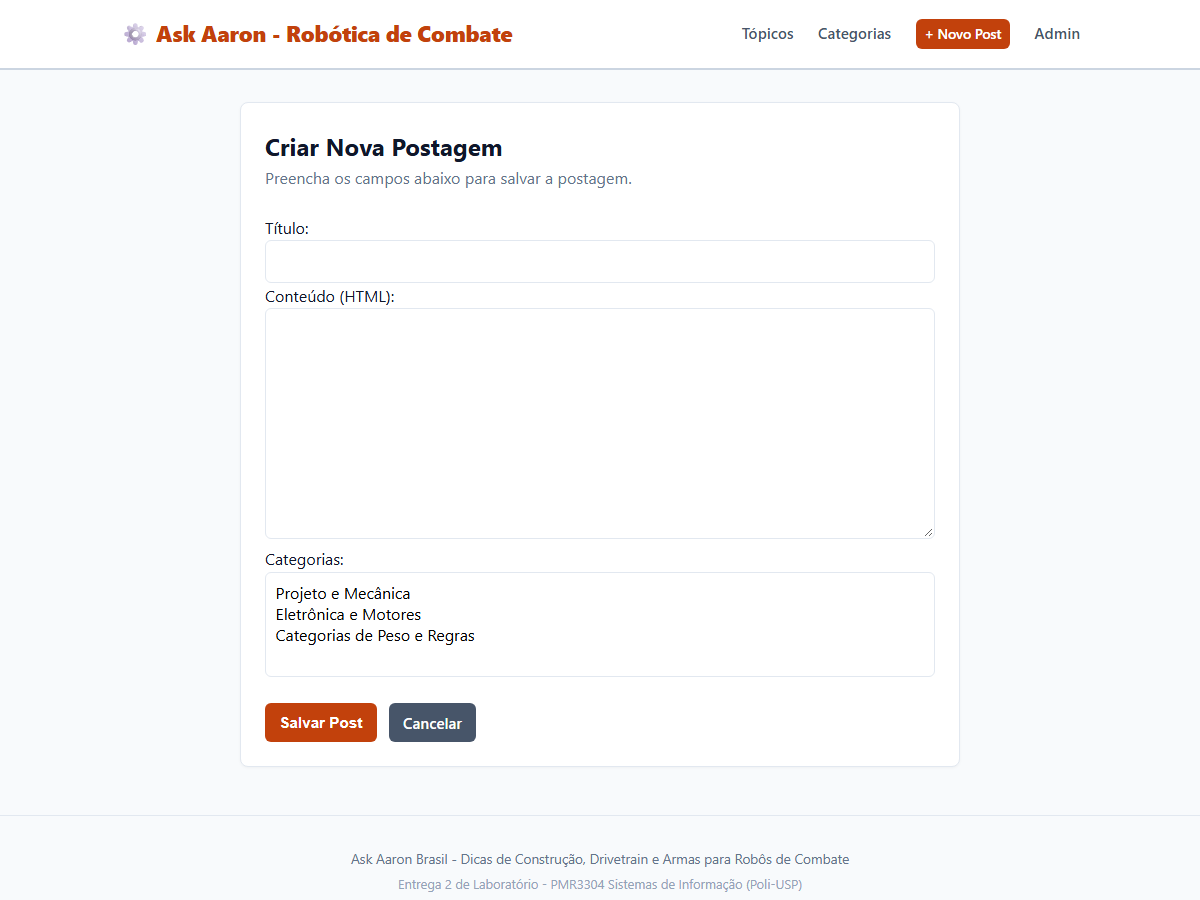
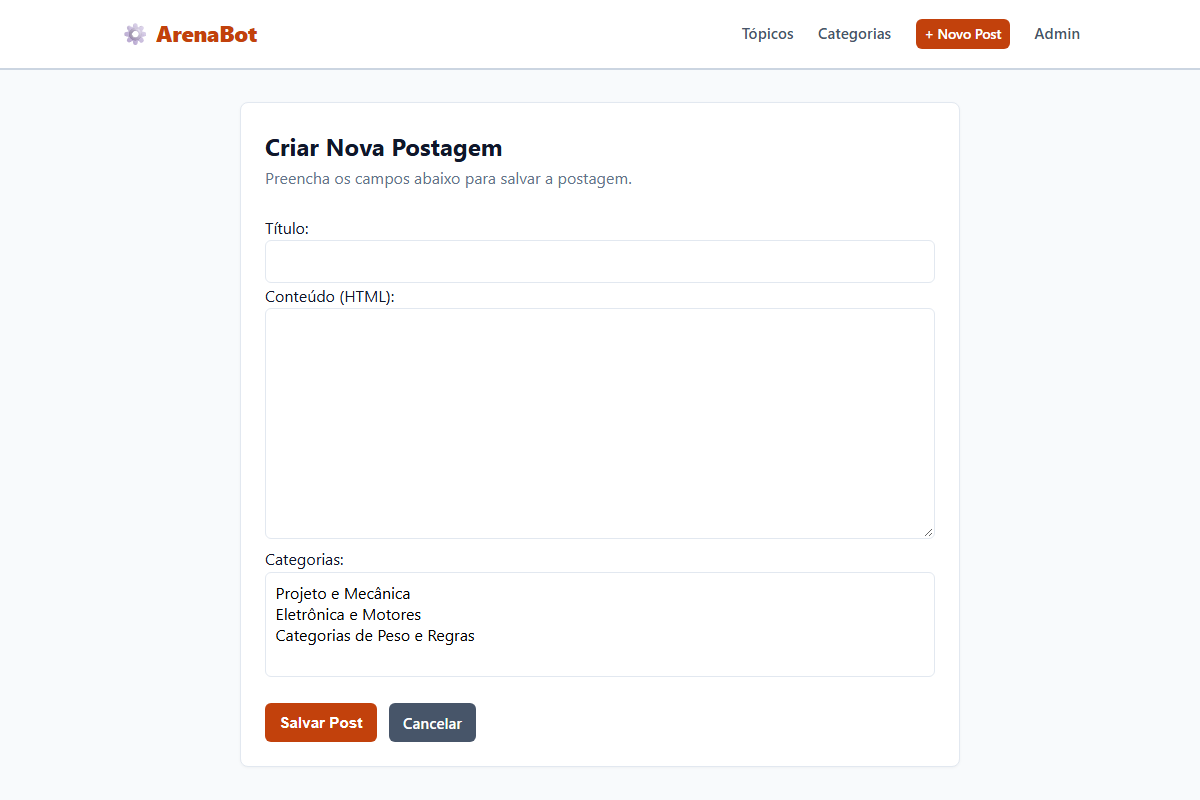
Atualizacao das capturas de tela e relatorio com ArenaBot

diff --git a/templates/base.html b/templates/base.html
@@ -3,7 +3,7 @@
 <head>
     <meta charset="UTF-8">
     <meta name="viewport" content="width=device-width, initial-scale=1.0">
-    <title>{% block title %}Ask Aaron - Robótica de Combate{% endblock %}</title>
+    <title>{% block title %}ArenaBot - Robótica de Combate{% endblock %}</title>
     <style>
         :root {
             --primary: #c2410c;
@@ -156,7 +156,7 @@
 <body>
     <header>
         <div class="nav-container">
-            <a href="{% url 'post_list' %}" class="logo">⚙ Ask Aaron - Robótica de Combate</a>
+            <a href="{% url 'post_list' %}" class="logo">⚙ ArenaBot</a>
             <nav>
                 <a href="{% url 'post_list' %}">Tópicos</a>
                 <a href="{% url 'category_list' %}">Categorias</a>
@@ -172,7 +172,7 @@
     </main>
 
     <footer>
-        <p>Ask Aaron Brasil - Dicas de Construção, Drivetrain e Armas para Robôs de Combate</p>
+        <p>ArenaBot - Engenharia & Robótica de Combate</p>
         <p style="margin-top: 0.25rem; font-size: 0.8rem; color: #94a3b8;">Entrega 2 de Laboratório - PMR3304 Sistemas de Informação (Poli-USP)</p>
     </footer>
 </body>

diff --git a/populate_db.py b/populate_db.py
@@ -1,0 +1,147 @@
+import os
+import django
+
+os.environ.setdefault('DJANGO_SETTINGS_MODULE', 'myblog.settings')
+django.setup()
+
+from django.contrib.auth.models import User
+from blog.models import Post, Comment, Category
+from django.utils import timezone
+import datetime
+
+print("Iniciando população da base de dados do blog ArenaBot...")
+
+# 0. Limpeza total e reset de autoincrement
+from django.db import connection
+with connection.cursor() as cursor:
+    cursor.execute("DELETE FROM blog_comment;")
+    cursor.execute("DELETE FROM blog_post_categories;")
+    cursor.execute("DELETE FROM blog_post;")
+    cursor.execute("DELETE FROM blog_category;")
+    cursor.execute("DELETE FROM auth_user;")
+    cursor.execute("DELETE FROM sqlite_sequence WHERE name IN ('blog_post', 'blog_comment', 'blog_category', 'auth_user');")
+
+# 1. Usuários
+admin_user = User.objects.create_superuser('admin', 'admin@arenabot.com.br', 'admin123')
+marcos = User.objects.create_user('marcos_mec', 'marcos@poli.usp.br', 'senha123')
+pedro = User.objects.create_user('pedro_elec', 'pedro@poli.usp.br', 'senha123')
+lucas = User.objects.create_user('lucas_poli', 'lucas@poli.usp.br', 'senha123')
+
+print("Usuários criados: admin, marcos_mec, pedro_elec, lucas_poli")
+
+# 2. Categorias
+cat_mec = Category.objects.create(
+    name='Projeto e Mecânica',
+    description='Armações, materiais como Titânio e Hardox, dentes de impacto, tambores e cálculos de inércia.'
+)
+
+cat_elec = Category.objects.create(
+    name='Eletrônica e Motores',
+    description='Baterias LiPo, controladores brushless (ESCs), rádios 2.4GHz e dimensionamento elétrico.'
+)
+
+cat_rules = Category.objects.create(
+    name='Categorias de Peso e Regras',
+    description='Normas de segurança, limites de peso (Beetleweight, Featherweight) e inspeção de arena.'
+)
+
+print("Categorias criadas: Projeto e Mecânica, Eletrônica e Motores, Categorias de Peso e Regras")
+
+# Post 1 (comentado, múltiplas categorias: Projeto e Mecânica + Eletrônica e Motores)
+p1 = Post.objects.create(
+    title='Dimensionamento de Reduções Planetárias e Motores Brushless para Armas de Tambor',
+    content='''<p>Um dos erros mais comuns em robôs da classe <em>Beetleweight (1,36 kg)</em> com armas rotativas de tambor (drum spinners) é focar apenas na rotação máxima (RPM) e esquecer o <strong>tempo de aceleração (spin-up)</strong> e a taxa de avanço (bite).</p>
+<h3>1. Cálculo de Rotação e Bite</h3>
+<p>Se o seu tambor gira rápido demais sem ter dentes com altura suficiente, ele simplesmente raspa na blindagem do oponente em vez de transferir energia cinética. O dente precisa de tempo mecânico para engatar por baixo do adversário antes de desferir o golpe.</p>
+<ul>
+    <li><strong>Momento de Inércia:</strong> Concentre a massa nas extremidades do diâmetro do tambor.</li>
+    <li><strong>Redução por Polias:</strong> Polias sincronizadoras HTD 3M com correias de poliuretano com alma de aço evitam que o motor trave em impactos diretos.</li>
+    <li><strong>Controlador (ESC):</strong> Sempre utilize controladores com limite de corrente ativo para não queimar enrolamentos durante travamentos na arena.</li>
+</ul>
+<p>Um tempo de spin-up entre 1,5s e 2,5s é ideal para manter a manobrabilidade e estar sempre pronto para o contra-ataque.</p>''',
+)
+p1.categories.set([cat_mec, cat_elec])
+p1.created_at = timezone.now() - datetime.timedelta(days=2)
+p1.save()
+
+# Comentários do Post 1 (3 comentários)
+c1_1 = Comment.objects.create(
+    post=p1,
+    author=marcos,
+    text='Excelente post! Para o dente de impacto você recomenda fixar com parafusos de grau 12.9 ou usinar inteiriço em aço ferramenta S7?',
+)
+c1_1.created_at = timezone.now() - datetime.timedelta(days=2, hours=-1)
+c1_1.save()
+
+c1_2 = Comment.objects.create(
+    post=p1,
+    author=pedro,
+    text='Sobre os ESCs, tivemos muito problema de desync em acelerações bruscas. O que resolveu pra gente foi migrar para controladores com firmware AM32.',
+)
+c1_2.created_at = timezone.now() - datetime.timedelta(days=2, hours=-2)
+c1_2.save()
+
+c1_3 = Comment.objects.create(
+    post=p1,
+    author=lucas,
+    text='Muito didático! Estamos projetando um Beetleweight aqui na faculdade e essa relação de inércia e bite ajudou demais a fechar as polias.',
+)
+c1_3.created_at = timezone.now() - datetime.timedelta(days=2, hours=-3)
+c1_3.save()
+
+
+# Post 2 (comentado, múltiplas categorias: Projeto e Mecânica + Categorias de Peso e Regras)
+p2 = Post.objects.create(
+    title='Guia de Blindagem: Quando Usar UHMW, Alumínio 7075 ou Titânio Grau 5',
+    content='''<p>Escolher o material certo para o chassi e as placas de proteção é o que define se o seu robô vai sobreviver aos três minutos de combate ou sair em pedaços da caixa de acrílico.</p>
+<h3>Comparativo Rápido de Materiais:</h3>
+<ul>
+    <li><strong>UHMW (Polietileno de Ultra Alto Peso Molecular):</strong> Excelente absorvedor de choques. Ele deforma plasticamente sem trincar contra impactos de discos horizontais de alta energia.</li>
+    <li><strong>Titânio Grau 5 (Ti-6Al-4V):</strong> A melhor relação resistência/peso para cunhas frontais e apoios de chão. É leve, difícil de perfurar e produz faíscas que impressionam os juízes.</li>
+    <li><strong>Alumínio 7075-T6:</strong> Ideal para painéis estruturais internos usinados, pois é muito mais rígido que o alumínio comum 6061.</li>
+</ul>
+<p>Dica prática: monte as placas de titânio sobre coxins de borracha ou suportes de TPU flexível para que a estrutura interna de eletrônica não sofra com as ondas de choque.</p>''',
+)
+p2.categories.set([cat_mec, cat_rules])
+p2.created_at = timezone.now() - datetime.timedelta(days=1)
+p2.save()
+
+# Comentários do Post 2 (2 comentários)
+c2_1 = Comment.objects.create(
+    post=p2,
+    author=marcos,
+    text='UHMW nas laterais salvou meu robô ano passado. Mesmo amassado ele não travou as rodas e conseguimos vencer na decisão dos juízes.',
+)
+c2_1.created_at = timezone.now() - datetime.timedelta(days=1, hours=-1)
+c2_1.save()
+
+c2_2 = Comment.objects.create(
+    post=p2,
+    author=pedro,
+    text='Chanfrar as arestas externas do chassi também ajuda bastante o disco do adversário a escorregar em vez de travar o golpe em 90 graus.',
+)
+c2_2.created_at = timezone.now() - datetime.timedelta(days=1, hours=-2)
+c2_2.save()
+
+
+# Post 3 (sem comentários, 1 categoria: Categorias de Peso e Regras)
+p3 = Post.objects.create(
+    title='Checklist de Segurança e Fail-Safe para Inspeção Técnica na Arena',
+    content='''<p>Antes de qualquer combate, todos os robôs devem passar obrigatoriamente pela <strong>inspeção técnica de segurança</strong> dos juízes. A reprovação impede a entrada na arena.</p>
+<h3>Itens Obrigatórios de Verificação:</h3>
+<ul>
+    <li><strong>Chave Geral (Removable Link ou Switch de Potência):</strong> Deve estar localizada em local acessível externamente, sem que os dedos fiquem no raio de ação da arma ativa.</li>
+    <li><strong>Trava Mecânica de Arma (Weapon Lock):</strong> Pino ou haste rígida que impede o movimento involuntário do tambor ou lâmina nos boxes e durante o transporte.</li>
+    <li><strong>Fail-Safe de Rádio:</strong> Se o transmissor for desligado ou perder o sinal com a arena, tanto a tração quanto a arma devem cortar a potência imediatamente para neutro (zero).</li>
+</ul>
+<p>Faça esse teste no pit antes de levar o robô para a pesagem oficial!</p>''',
+)
+p3.categories.set([cat_rules])
+p3.created_at = timezone.now()
+p3.save()
+
+print(f"Banco populado com sucesso:")
+print(f"- {Post.objects.count()} posts")
+print(f"- {Comment.objects.count()} comentários")
+print(f"- {Category.objects.count()} categorias")
+print(f"- {User.objects.count()} usuários")

diff --git a/relatorio_docs/generate_pdf_report.py b/relatorio_docs/generate_pdf_report.py
@@ -150,10 +150,11 @@ story.append(Paragraph("DEPARTAMENTO DE ENGENHARIA MECATRÔNICA E SISTEMAS MECÂ
 story.append(Paragraph("PMR3304 - SISTEMAS DE INFORMAÇÃO", ParagraphStyle('Disc', parent=styles['Normal'], fontName='Helvetica-Bold', fontSize=10, alignment=1, textColor=colors.HexColor("#64748b"), spaceAfter=50)))
 
 story.append(Paragraph("SEGUNDA ENTREGA DE LABORATÓRIO", subtitle_style))
-story.append(Paragraph("Aplicação CRUD com Django: Blog Ask Aaron (Robótica de Combate), Comentários, Categorias e SQL", title_style))
+story.append(Paragraph("Aplicação CRUD com Django: Blog ArenaBot (Robótica de Combate), Comentários, Categorias e SQL", title_style))
 story.append(Spacer(1, 25))
 
 meta_data = [
+    [Paragraph("<b>Aluno:</b> Henrique Moreno de Morais", body_style)],
     [Paragraph("<b>Disciplina:</b> PMR3304 - Sistemas de Informação", body_style)],
     [Paragraph("<b>Docentes:</b> Prof. Dr. Gustavo / Prof. Dr. Luís Sá", body_style)],
     [Paragraph("<b>Ambiente:</b> Python 3.12, Django 6.1, SQLite 3", body_style)],
@@ -368,20 +369,17 @@ story.append(PageBreak())
 # Capturas de Tela da Parte 1
 story.append(Paragraph("<b>Capturas de Tela da Aplicação CRUD (Parte 1):</b>", h2_style))
 
-img_w = 480
-img_h = 240
-
-def add_img_card(img_name, caption):
+def add_img_card(img_name, caption, w=480, h=230):
     full_path = os.path.join(prints_dir, img_name)
     if os.path.exists(full_path):
         story.append(KeepTogether([
-            Image(full_path, width=img_w, height=img_h),
+            Image(full_path, width=w, height=h),
             Paragraph(caption, caption_style),
             Spacer(1, 4)
         ]))
 
 add_img_card("print_01_post_list.png", "Figura 1: Página de listagem de posts (/), com botões de ação e links para leitura completa.")
-add_img_card("print_02_post_detail.png", "Figura 2: Página individual de post (/post/1/), renderizando conteúdo HTML seguro e data formatada.")
+add_img_card("print_02_post_detail.png", "Figura 2: Página individual de post (/post/1/), renderizando conteúdo HTML seguro (filtro safe) e data formatada.")
 story.append(PageBreak())
 add_img_card("print_03_post_create.png", "Figura 3: Formulário de criação de post (/post/new/).")
 add_img_card("print_04_post_update.png", "Figura 4: Formulário de edição de post (/post/1/edit/).")
@@ -445,7 +443,10 @@ def comment_create(request, pk):
     return render(request, 'blog/comment_form.html', {'form': form, 'post': post})"""
 story.append(Paragraph(v_com_code.replace('\n', '<br/>').replace(' ', '&nbsp;'), code_style))
 
-add_img_card("print_06_comment_create.png", "Figura 6: Página individual de criação de comentário (/post/1/comment/).")
+story.append(PageBreak())
+story.append(Paragraph("<b>Capturas de Tela do Sistema de Comentários (Parte 2):</b>", h2_style))
+add_img_card("print_06b_post_comments.png", "Figura 6: Página individual de post exibindo a seção de comentários ordenados pelo mais recente.", w=440, h=310)
+add_img_card("print_06_comment_create.png", "Figura 7: Página de criação de comentário direto para o post (/post/1/comment/).", w=460, h=220)
 story.append(PageBreak())
 
 # 4.3 Parte 3
@@ -516,8 +517,12 @@ def category_detail(request, pk):
     })"""
 story.append(Paragraph(v_cat_code.replace('\n', '<br/>').replace(' ', '&nbsp;'), code_style))
 
-add_img_card("print_07_category_list.png", "Figura 7: Página de listagem de categorias (/categories/).")
-add_img_card("print_08_category_detail.png", "Figura 8: Página individual de categoria (/categories/1/), reutilizando o template de listagem de posts.")
+story.append(PageBreak())
+story.append(Paragraph("<b>Capturas de Tela do Sistema de Categorias (Parte 3):</b>", h2_style))
+add_img_card("print_02_post_detail.png", "Figura 8: Página individual de post exibindo as categorias às quais pertence com links navegáveis.", w=480, h=225)
+add_img_card("print_07_category_list.png", "Figura 9: Página de listagem de categorias (/categories/) com link no header.", w=480, h=215)
+story.append(PageBreak())
+add_img_card("print_08_category_detail.png", "Figura 10: Página individual de categoria (/categories/1/), reutilizando o template post_list.html para exibir todos os posts pertencentes à categoria.", w=480, h=230)
 
 story.append(KeepTogether([
     Paragraph("<b>Links de Acesso ao Repositório e Deploy:</b>", body_style),
@@ -536,6 +541,8 @@ story.append(Paragraph(
     body_style
 ))
 
+img_w = 480
+
 def add_sql_block(num, title, sql, img_name):
     full_path = os.path.join(prints_dir, img_name)
     story.append(KeepTogether([
@@ -543,7 +550,7 @@ def add_sql_block(num, title, sql, img_name):
         Paragraph("Código SQL:", body_style),
         Paragraph(sql.replace('\n', '<br/>').replace(' ', '&nbsp;'), code_style),
         Image(full_path, width=img_w, height=195) if os.path.exists(full_path) else Spacer(1, 10),
-        Paragraph(f"Figura {8 + num}: Execução e resultado da Query {num} no DB Browser for SQLite.", caption_style),
+        Paragraph(f"Figura {10 + num}: Execução e resultado da Query {num} no DB Browser for SQLite.", caption_style),
         Spacer(1, 8)
     ]))
 

diff --git a/relatorio_docs/take_screenshots.py b/relatorio_docs/take_screenshots.py
@@ -8,28 +8,29 @@ os.makedirs(prints_dir, exist_ok=True)
 edge_path = r"C:\Program Files (x86)\Microsoft\Edge\Application\msedge.exe"
 
 targets = [
-    ("print_01_post_list.png", "http://127.0.0.1:8000/"),
-    ("print_02_post_detail.png", "http://127.0.0.1:8000/post/1/"),
-    ("print_03_post_create.png", "http://127.0.0.1:8000/post/new/"),
-    ("print_04_post_update.png", "http://127.0.0.1:8000/post/1/edit/"),
-    ("print_05_post_confirm_delete.png", "http://127.0.0.1:8000/post/1/delete/"),
-    ("print_06_comment_create.png", "http://127.0.0.1:8000/post/1/comment/"),
-    ("print_07_category_list.png", "http://127.0.0.1:8000/categories/"),
-    ("print_08_category_detail.png", "http://127.0.0.1:8000/categories/1/"),
+    ("print_01_post_list.png", "http://127.0.0.1:8000/", "1200,850"),
+    ("print_02_post_detail.png", "http://127.0.0.1:8000/post/1/", "1200,900"),
+    ("print_03_post_create.png", "http://127.0.0.1:8000/post/new/", "1200,800"),
+    ("print_04_post_update.png", "http://127.0.0.1:8000/post/1/edit/", "1200,800"),
+    ("print_05_post_confirm_delete.png", "http://127.0.0.1:8000/post/1/delete/", "1200,700"),
+    ("print_06_comment_create.png", "http://127.0.0.1:8000/post/1/comment/", "1200,750"),
+    ("print_06b_post_comments.png", "http://127.0.0.1:8000/post/1/", "1200,1400"),
+    ("print_07_category_list.png", "http://127.0.0.1:8000/categories/", "1200,750"),
+    ("print_08_category_detail.png", "http://127.0.0.1:8000/categories/1/", "1200,850"),
 ]
 
-for filename, url in targets:
+for filename, url, size in targets:
     out_file = os.path.join(prints_dir, filename)
     cmd = [
         edge_path,
         "--headless",
         "--disable-gpu",
         "--hide-scrollbars",
-        "--window-size=1200,900",
+        f"--window-size={size}",
         f"--screenshot={out_file}",
         url
     ]
-    print(f"Capturando {url} -> {filename}...")
+    print(f"Capturando {url} (size {size}) -> {filename}...")
     try:
         subprocess.run(cmd, timeout=15, check=True)
         print(f"Sucesso: {filename} ({os.path.getsize(out_file)} bytes)")
